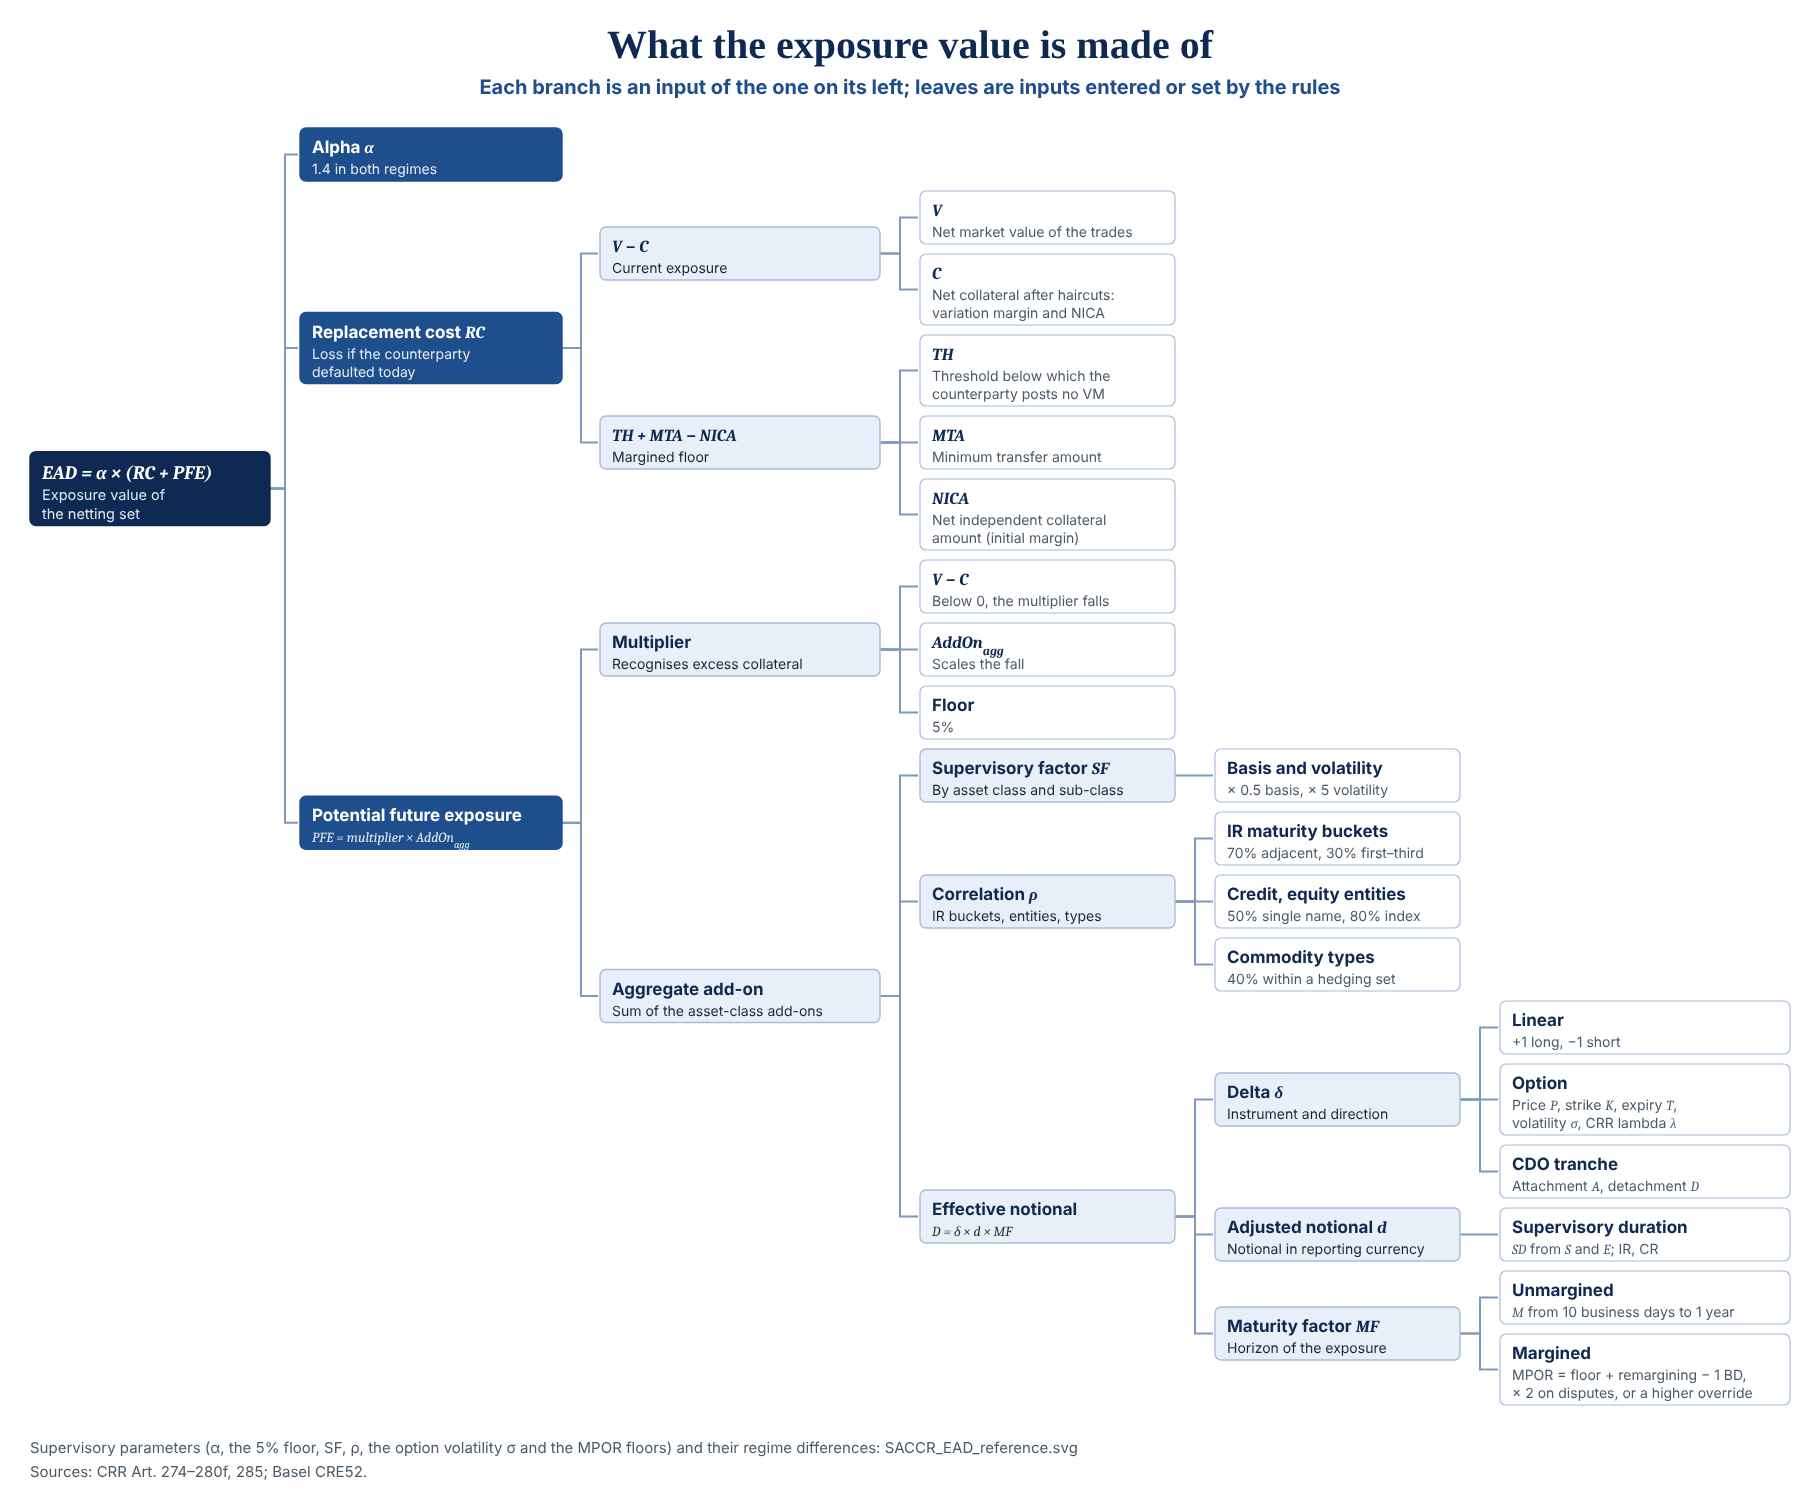
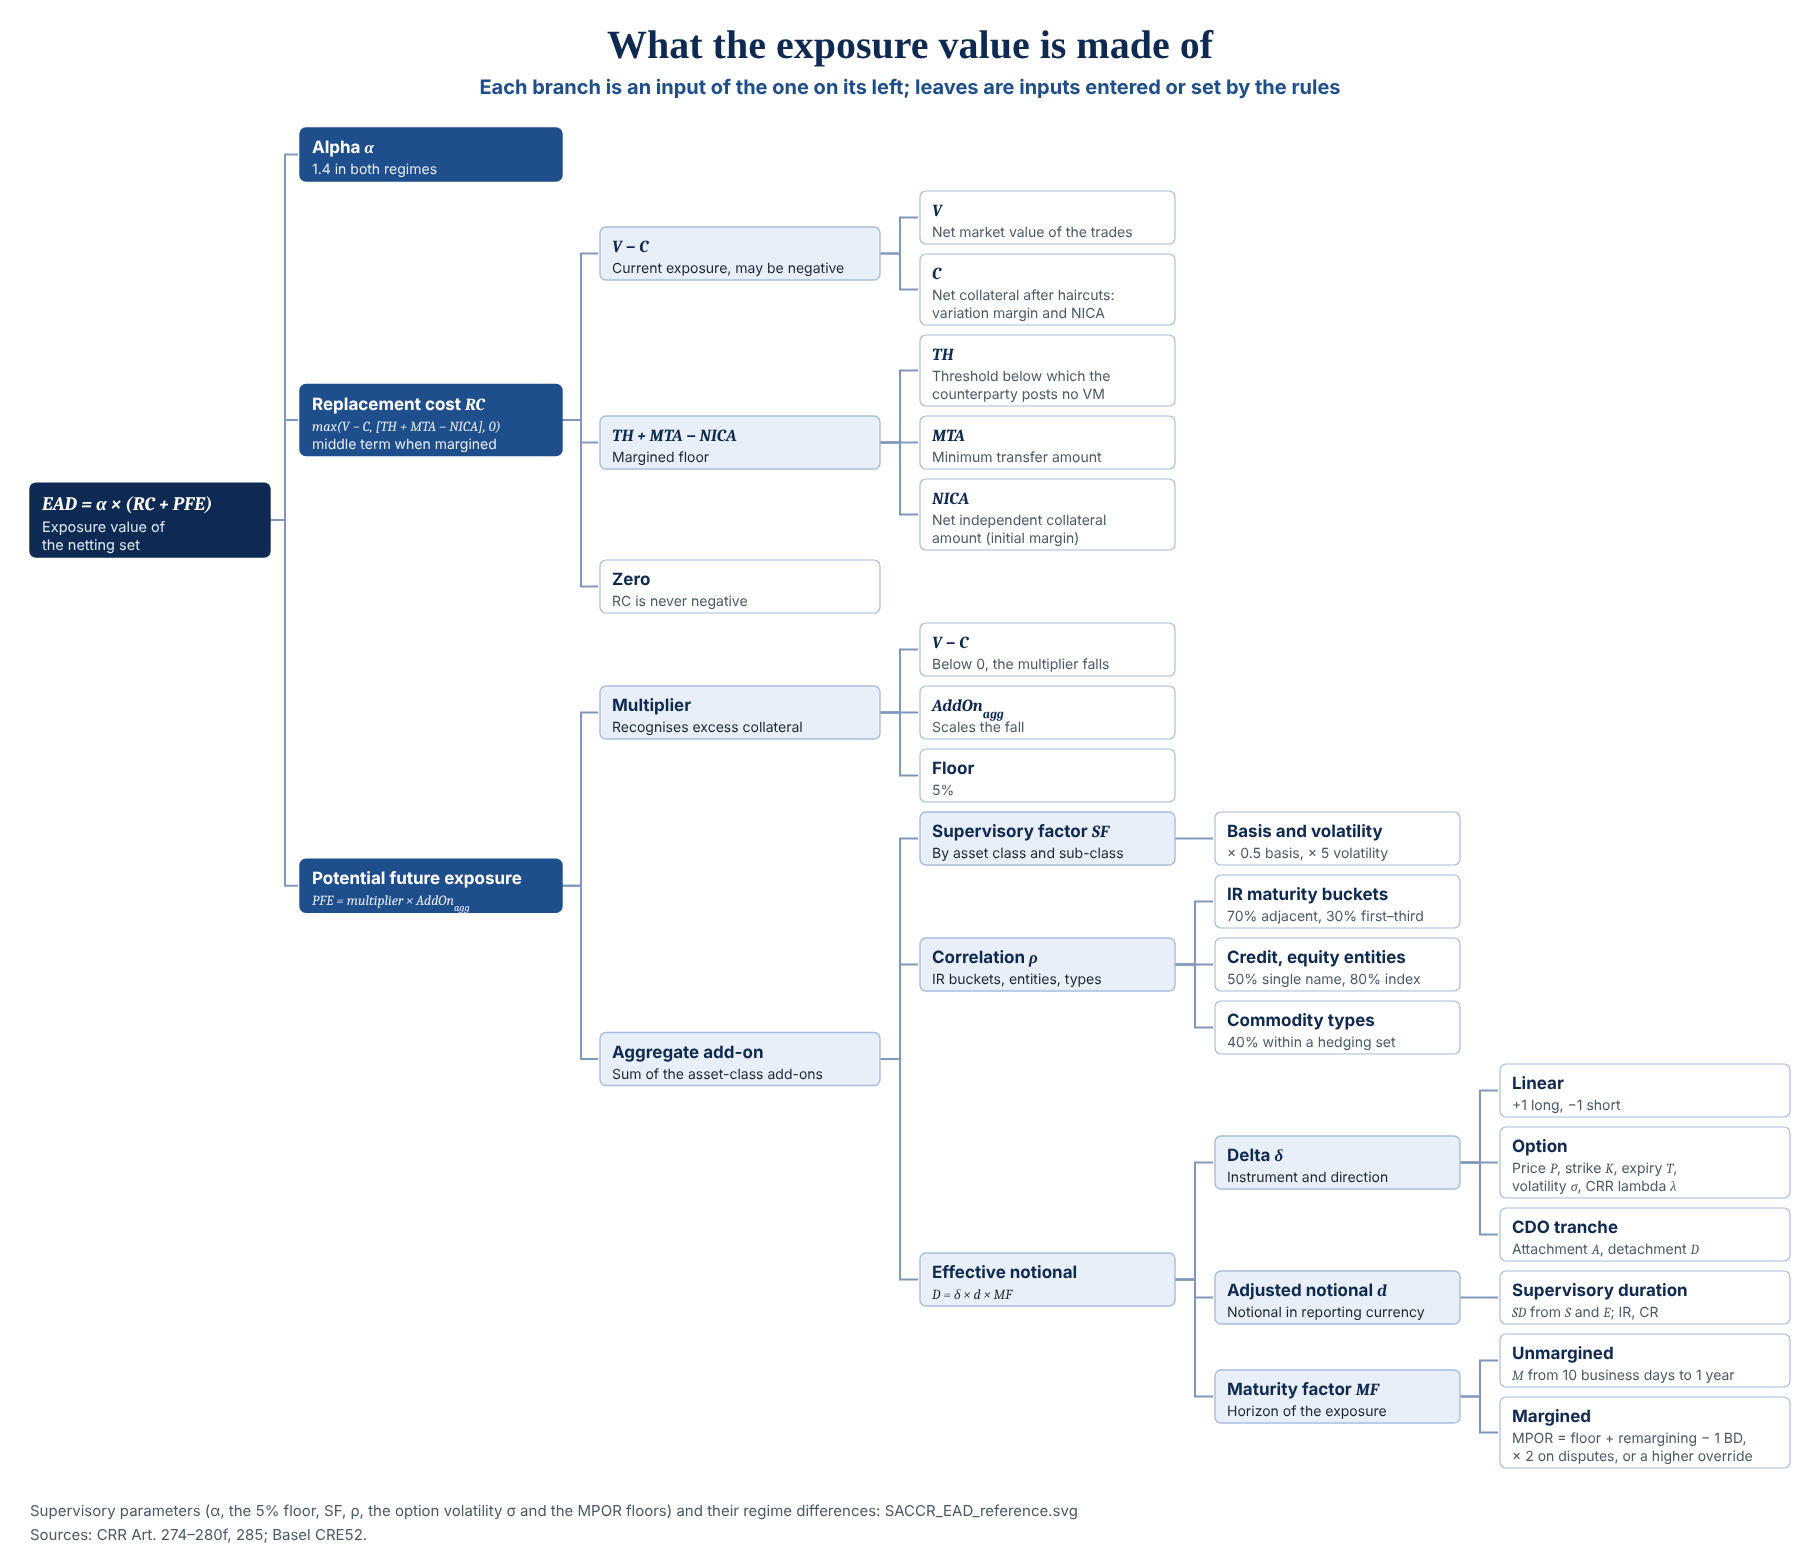
Show RC's zero floor and economic-trade legs in the explainers (#364)
The EAD tree shows RC = max(V − C, [TH + MTA − NICA], 0), with the middle term only when margined and a "Zero: RC is never negative" branch. The aggregation picture states that an economic trade has one leg per asset class and that an option combination has one leg per option. The size note and the methodology alt text are updated.

Validated: python tools/check.py passes; PNGs re-rendered and checked visually.

diff --git a/docs/methodology/README.md b/docs/methodology/README.md
@@ -20,7 +20,7 @@ picture summarises them and is not a source (select it to open it full size):
 <p align="center">
   <a href="../assets/SACCR_EAD_tree.svg">
     <img width="100%"
-         alt="What the exposure value is made of: EAD = alpha x (RC + PFE); RC from V - C and, when margined, TH + MTA - NICA; PFE from the multiplier (V - C, the aggregate add-on, a 5% floor) and the aggregate add-on, built from supervisory factors, correlations (between IR maturity buckets, credit and equity entities, and commodity types) and effective notionals D = delta x d x MF with their trade-level inputs"
+         alt="What the exposure value is made of: EAD = alpha x (RC + PFE); RC = max(V - C, TH + MTA - NICA when margined, 0), never negative; PFE from the multiplier (V - C, the aggregate add-on, a 5% floor) and the aggregate add-on, built from supervisory factors, correlations (between IR maturity buckets, credit and equity entities, and commodity types) and effective notionals D = delta x d x MF with their trade-level inputs"
          src="../assets/SACCR_EAD_tree.svg">
   </a>
 </p>

diff --git a/docs/assets/README.md b/docs/assets/README.md
@@ -166,7 +166,7 @@ source; the card holds the parameters and the full formulas.
   The value path in `SACCR_RC_PFE.svg` is illustrative, not data.
 - **Rendering:** the SVGs are the source. `SACCR_aggregation.png`,
   `SACCR_EAD_tree.png` and `SACCR_RC_PFE.png`, used by the Wiki, are rendered
-  from them at their own size (1800 x 1550, 1820 x 1505 and 1800 x 1060 px)
+  from them at their own size (1800 x 1550, 1820 x 1568 and 1800 x 1060 px)
   with headless Chromium at a device scale factor of 1, then quantized to 256
   colours as the screenshots above. Render them again whenever an SVG
   changes, and update the pictures when a formula or a supervisory parameter
